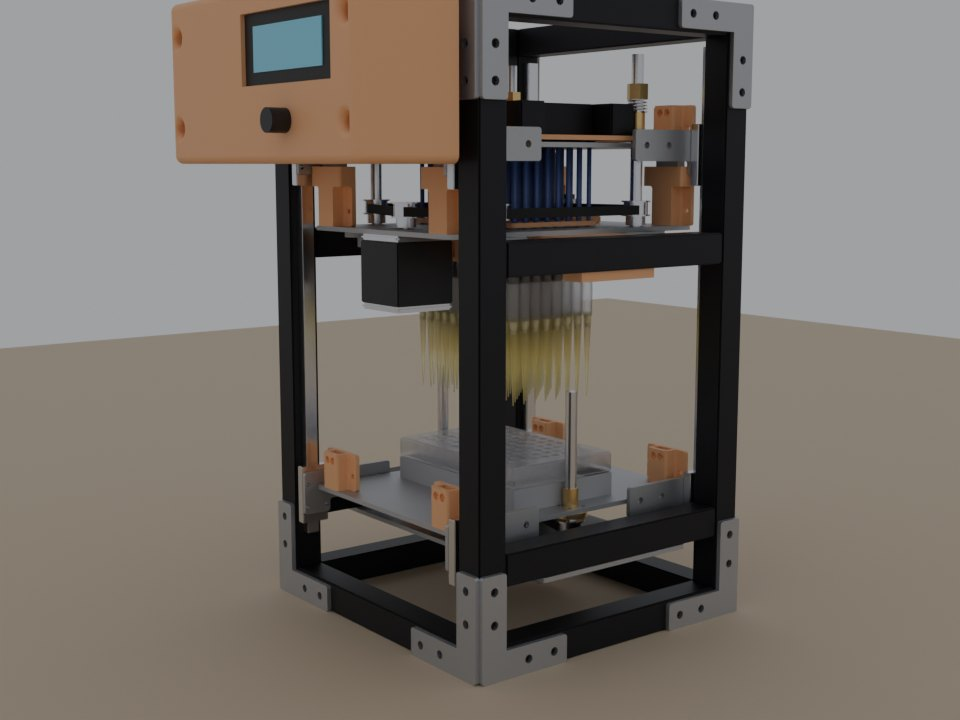
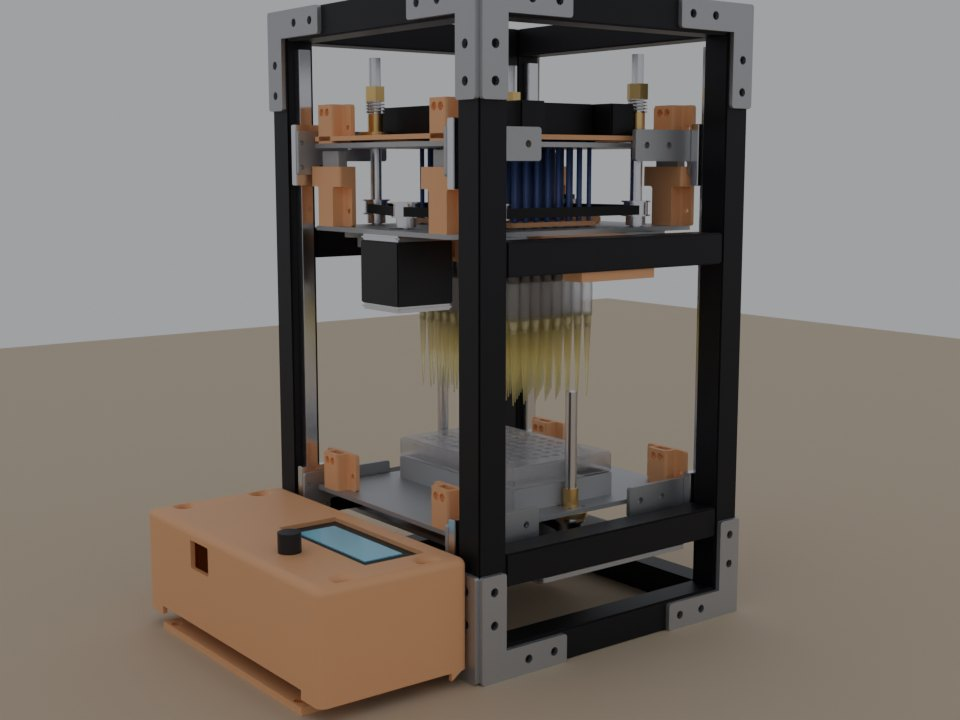
Move the control box in front of the base
The electronics housing now lies in front of the base with the screen and
knob facing up and the lid on the bench, instead of standing on the front
face at the top. At about 76 mm tall (knob 88.5 mm) it stays below the
lowered tray at 96 mm, so well plates still slide in from the front over
it. It fixes to the bottom front bar with two screws through its back
wall, and it now sits next to the lift motor.

Collision sweep still clean. Added a control-box render and refreshed the
side views; BOM and README note the new placement.

Changed region(s): [[0.1562, 0.6722, 0.5, 1.0], [0.1562, 0.0, 0.5, 0.3361]]

diff --git a/04_Blender/variant_motor_lift.py b/04_Blender/variant_motor_lift.py
@@ -18,6 +18,8 @@ Builds the baseline (build_pipette.py) and then modifies it:
   * frees two of the CNC shield's four driver slots (X = plunger, Y = lift)
   * the pipette plate is bolted through two printed brackets to a 2020 bar along each side of
     the frame; the lift platform's rail plates hang from four printed corner blocks
+  * the control box lies in front of the base, screen and knob up, low enough that well plates
+    still slide in from the front over it
 Layout numbers and the laser-cut plates come from 01_Hardware/MotorLift/make_dxf.py (run it first
 if the DXFs are missing); export_motor_lift_parts.py writes the printed parts as STL.
 Run: blender --python 04_Blender/variant_motor_lift.py  (or open it in Blender's Text Editor and Run Script)
@@ -497,6 +499,23 @@ def modify():
     for sx in (-1, 1):
         members.append(box(f"plunger_stiffener_{'LR'[sx > 0]}", (20, 54, 20), (sx * 48, 0, zf), "Head", M["ext"], bevel=1.0))
     rig_empty("plunger_carriage", "Head", members)
+
+    # ---------------- control box: laid down in front of the base, screen and knob facing up,
+    # lid on the bench. At 72 mm tall it stays below the lowered tray (96 mm), so well plates
+    # still slide in from the front; two screws through its back wall into the bottom front bar.
+    parts = [obj[n] for n in ("ScreenHousing", "electronics_lid", "LCD_2004_bezel", "LCD_2004_screen", "encoder_knob")]
+    bpy.context.view_layer.update()
+    R = Matrix.Rotation(D(-90), 4, 'X')               # screen normal -y -> +z, box top -> toward the frame
+    for o in parts:
+        o.matrix_world = R @ o.matrix_world
+    bpy.context.view_layer.update()
+    pts = [o.matrix_world @ Vector(c) for o in parts for c in o.bound_box]
+    back = -(g["FY"] / 2 + T + 0.5)                   # just clear of the corner brackets
+    shift = Vector((-(min(p.x for p in pts) + max(p.x for p in pts)) / 2,
+                    back - max(p.y for p in pts), -min(p.z for p in pts)))
+    for o in parts:
+        o.matrix_world = Matrix.Translation(shift) @ o.matrix_world
+
     def span(seq, idx, sign):         # belt length with the idler at each end of its slot
         out = []
         for take in (TENSION_TAKEUP - 6, TENSION_TAKEUP + 6):

diff --git a/04_Blender/README.md b/04_Blender/README.md
@@ -20,7 +20,7 @@ without the UI. Units are millimeters (Z up, front = -Y).
 |---|---|---|
 | `build_pipette.py` | The original: the lever lowers the whole head. | `original_*.jpg` |
 | `variant_raise_bed.py` | Head fixed; the geared lever raises the bed through short links arranged as a toggle that locks at the top. Handle on the right. | `lever_lift_*.jpg` |
-| `variant_motor_lift.py` | Head fixed; one NEMA17 lifts the bed on two T8x2 screws through a GT2 belt, and one motor (48 mm body) drives all four T8x2 plunger screws through a second belt. Anti-backlash plunger nuts, a 2020 stiffening frame on the plunger plate, idler tensioners, a lift home switch, and the pipette plate bolted to side bars. Its plates come from `01_Hardware/MotorLift/make_dxf.py`, which also holds the layout numbers. Firmware: `02_Software/arduino/MotorLift`. | `motor_lift_*.jpg` |
+| `variant_motor_lift.py` | Head fixed; one NEMA17 lifts the bed on two T8x2 screws through a GT2 belt, and one motor (48 mm body) drives all four T8x2 plunger screws through a second belt. Anti-backlash plunger nuts, a 2020 stiffening frame on the plunger plate, idler tensioners, a lift home switch, the pipette plate bolted to side bars, and the control box laid in front of the base (screen up, below the plate-loading path). Its plates come from `01_Hardware/MotorLift/make_dxf.py`, which also holds the layout numbers. Firmware: `02_Software/arduino/MotorLift`. | `motor_lift_*.jpg` |
 
 The variants build on `build_pipette.py`, so it has to stay in the same folder.
 

diff --git a/BOM.md b/BOM.md
@@ -42,7 +42,7 @@ least 220 mm.
 | Plunger holder plate | 1 | `MotorLift/ToPrint-STL/plunger_holder_plate_motorlift.stl` | Generated | The plunger nuts sit on it. |
 | Corner block | 8 | `ToPrint-STL/LimitSwitch_holder_A.STL` | Repo | 4 on the plunger plate, 4 on the lift platform. |
 | Corner block + switch, pipette level | 4 | `ToPrint-STL/LimitSwitch_holder_B.STL` | Repo | |
-| Electronics housing | 1 | `ToPrint-STL/ScreenHousing.STL` | Repo | |
+| Electronics housing | 1 | `ToPrint-STL/ScreenHousing.STL` | Repo | Lies in front of the base, screen up; 2 screws through its back wall into the bottom front bar. |
 | Electronics lid | 1 | `ToPrint-STL/electronics_lid.STL` | Repo | |
 | Well-plate tray | 1 | `ToPrint-STL/Optional/vertical_tray.STL` | Repo | Laid flat; it sets the well-plate height the firmware expects. |
 | Head bracket | 2 | `MotorLift/ToPrint-STL/head_bracket.stl` | Generated | Bolts the pipette plate to the side bars. |
